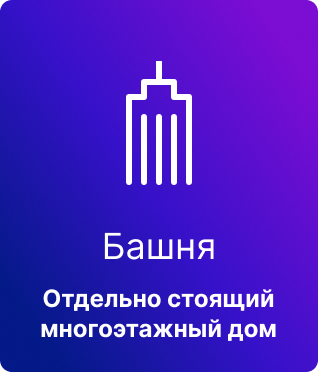
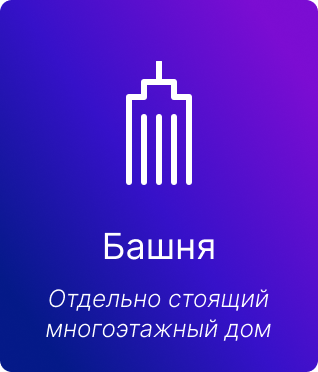
last corrections 13Dec

Changed region(s): [[0.1132, 0.7688, 0.8774, 0.9167]]

diff --git a/index.html b/index.html
@@ -105,7 +105,7 @@
         </div>
       </div>
       <div class="before">
-        <h2 class="title title_small">Немного из истории
+        <h2 class="title title_small">Немного <br>из истории
         </h2>
         <p class="text text_small">Но так было не всегда. Ведь Московское произношение возникло не сразу, а складывалось веками.
           Изначально его основой было произношение восточно-славянского племени кливичей (близкое к произношению славян новгородских). Москвичи до 16 века «окали». <br>
@@ -162,9 +162,7 @@
       </div>
     </main>
   </div>
-  // jquery
   <script type="text/javascript" src="https://cdn.jsdelivr.net/npm/jquery@3.6.0/dist/jquery.min.js"></script>
-  // slick.min.js
   <script type="text/javascript" src="https://cdn.jsdelivr.net/npm/slick-carousel@1.8.1/slick/slick.min.js"></script>
 <script>
   $(".lazy").slick({

diff --git a/blocks/illustrations/illustrations.css b/blocks/illustrations/illustrations.css
@@ -1,6 +1,7 @@
 .illustrations {
-    padding-top: 56px;
+    margin: 0 auto;
+    padding-top: 80px;
     width: 100%;
     display: flex;
-    justify-content: space-between;
+    justify-content: center;
 }

diff --git a/blocks/illustrations/__item/illustrations__item.css b/blocks/illustrations/__item/illustrations__item.css
@@ -1,3 +1,8 @@
 .illustrations__item {
-position: relative;
+    position: relative;
+    margin-right: 100px;
+}
+
+.illustrations__item:last-child {
+    margin-right: 0;
 }

diff --git a/blocks/about/about.css b/blocks/about/about.css
@@ -1,3 +1,11 @@
 .about {
-    padding-top: 56px;
+    padding: 56px 0;
+}
+
+b {
+    font-weight: bold;
+}
+
+i {
+    font-style: italic;
 }

diff --git a/blocks/feature/feature.css b/blocks/feature/feature.css
@@ -1,4 +1,6 @@
 .feature {
+    margin: 0 auto;
+    width: 90%;
     display: flex;
     justify-content: space-between;
 }
